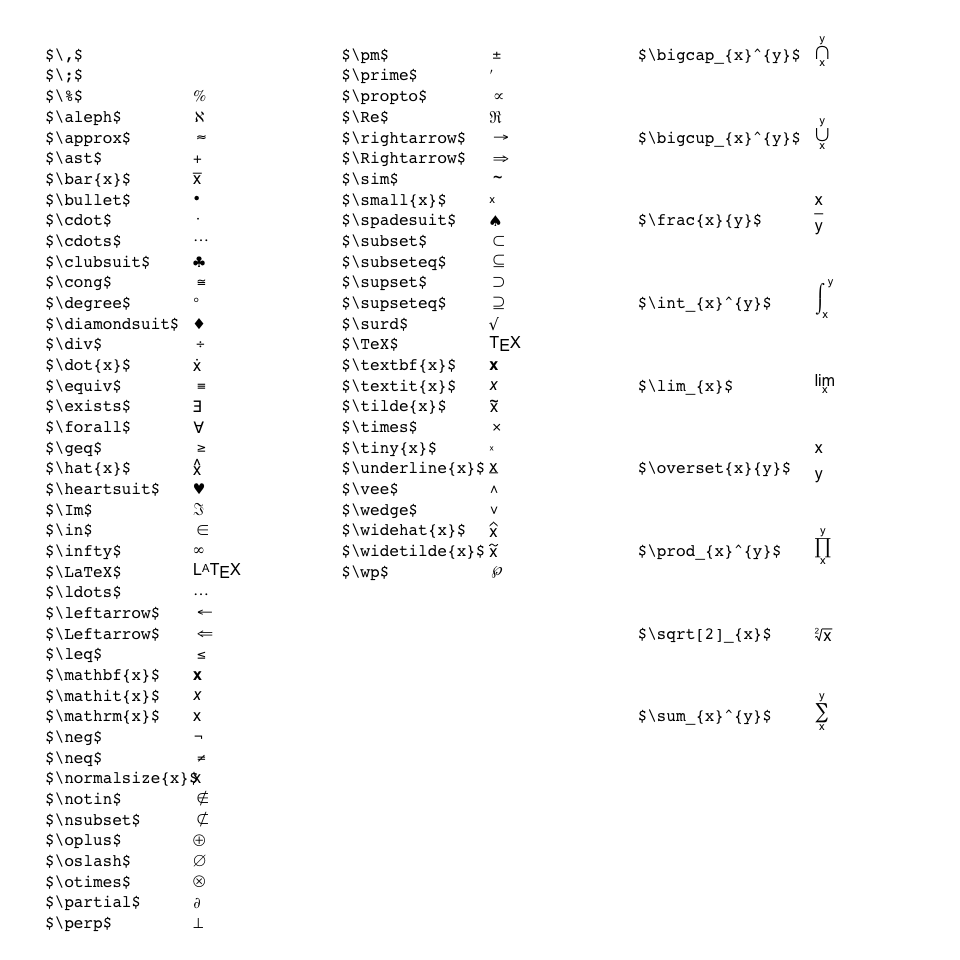
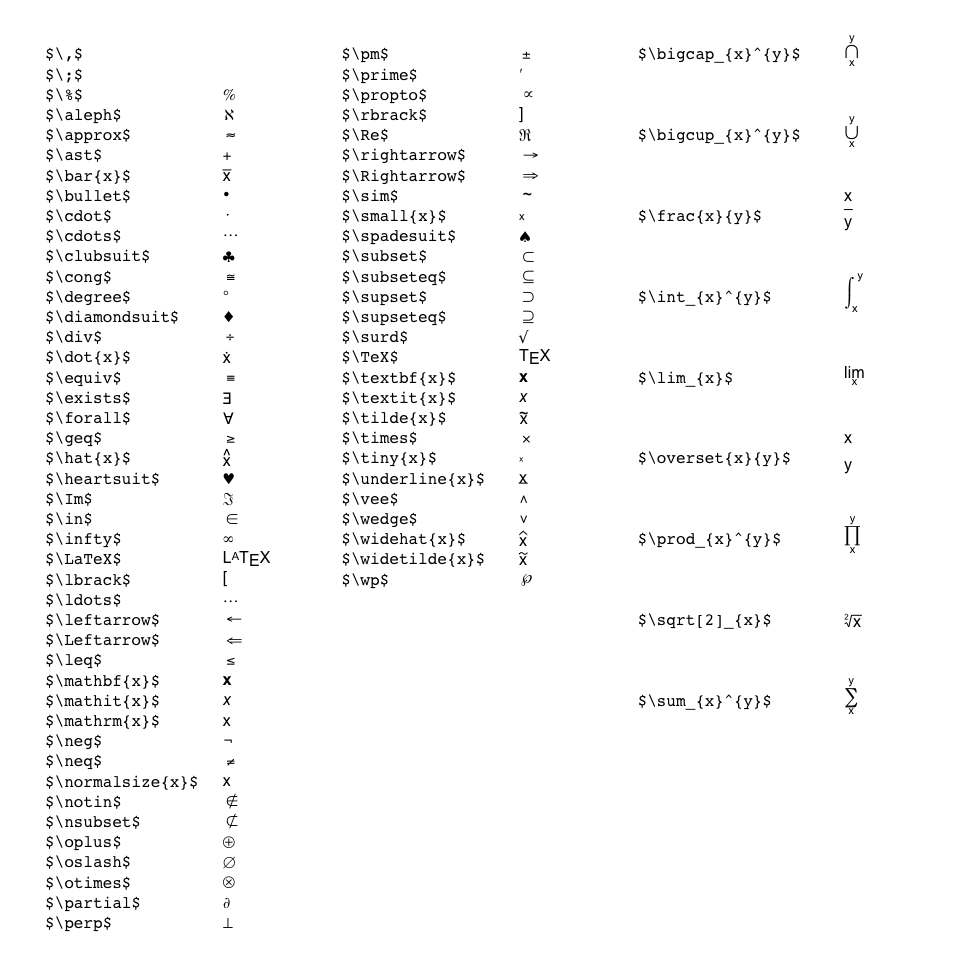
Fixed README

diff --git a/README.md b/README.md
@@ -28,12 +28,12 @@ library(latex2exp)
 The `latex2exp` function takes a LaTeX string and returns a plotmath expression suitable for use in plotting, e.g.,
 
 ``` r
-latex2exp('$\\alpha^\\beta$')
+TeX('$\\alpha^\\beta$')
 ```
 
 (note it is *always* necessary to escape the backslash within a string, hence the double backslash).
 
-The return value of latex2exp can be used anywhere a plotmath expression is accepted, including plot labels, legends, and text.
+The return value of `TeX()` can be used anywhere a plotmath expression is accepted, including plot labels, legends, and text.
 
 The following example shows plotting in base graphics:
 
@@ -42,12 +42,12 @@ x <- seq(0, 4, length.out=100)
 alpha <- 1:5
 
 plot(x, xlim=c(0, 4), ylim=c(0, 10), 
-     xlab='x', ylab=latex2exp('$\\alpha  x^\\alpha$, where $\\alpha \\in 1\\ldots 5$'), 
-     type='n', main=latex2exp('Using $\\LaTeX$ for plotting in base graphics!'))
+     xlab='x', ylab=TeX('$\\alpha  x^\\alpha$, where $\\alpha \\in 1\\ldots 5$'), 
+     type='n', main=TeX('Using $\\LaTeX$ for plotting in base graphics!'))
 
 invisible(sapply(alpha, function(a) lines(x, a*x^a, col=a)))
 
-legend('topleft', legend=latex2exp(sprintf("$\\alpha = %d$", alpha)), 
+legend('topleft', legend=TeX(sprintf("$\\alpha = %d$", alpha)), 
        lwd=1, col=alpha)
 ```
 
@@ -63,11 +63,11 @@ data <- mdply(alpha, function(a, x) data.frame(v=a*x^a, x=x), x)
 
 p <- ggplot(data, aes(x=x, y=v, color=X1)) +
     geom_line() + 
-    ylab(latex2exp('$\\alpha  x^\\alpha$, where $\\alpha \\in 1\\ldots 5$')) +
-    ggtitle(latex2exp('Using $\\LaTeX$ for plotting in ggplot2. I $\\heartsuit$ ggplot!')) +
+    ylab(TeX('$\\alpha  x^\\alpha$, where $\\alpha \\in 1\\ldots 5$')) +
+    ggtitle(TeX('Using $\\LaTeX$ for plotting in ggplot2. I $\\heartsuit$ ggplot!')) +
     coord_cartesian(ylim=c(-1, 10)) +
     guides(color=guide_legend(title=NULL)) +
-    scale_color_discrete(labels=lapply(sprintf('$\\alpha = %d$', alpha), latex2exp)) 
+    scale_color_discrete(labels=lapply(sprintf('$\\alpha = %d$', alpha), TeX)) 
     # Note that ggplot2 legend labels must be lists of expressions, not vectors of expressions
 
 print(p)
@@ -78,7 +78,7 @@ print(p)
 You can quickly test out what a translated LaTeX string would look like by using `plot`:
 
 ``` r
-plot(latex2exp("A $\\LaTeX$ formula: $\\frac{2hc^2}{\\lambda^5} \\, 
+plot(TeX("A $\\LaTeX$ formula: $\\frac{2hc^2}{\\lambda^5} \\, 
                \\frac{1}{e^{\\frac{hc}{\\lambda k_B T}} - 1}$"), cex=2)
 ```
 
@@ -90,13 +90,13 @@ Syntax
 Use
 
 ``` r
-latex2exp('latexString')
+TeX('latexString')
 ```
 
 to build a plotmath expression, ready for use in plots. If the parser cannot build a correct plotmath expression, it will `stop()` and show the invalid plotmath expression built.
 
 ``` r
-latex2exp('latexString', output=c('expression', 'character', 'ast'))
+TeX('latexString', output=c('expression', 'character', 'ast'))
 ```
 
 If the `output` option is equal to `character`, it will return the string representation of the expression (which could be converted into an expression using `parse(text=)`).
@@ -148,6 +148,11 @@ latex2exp_examples()
 
 Changes
 -------
+
+### 0.4.0 \[08/29/2015\]
+
+-   Deprecated the `latex2exp()` function; use `TeX()` instead.
+-   Added `\lbrack` and `\rbrack` to type left and right square brackets.
 
 ### 0.3.3 \[08/11/2015\]
 
